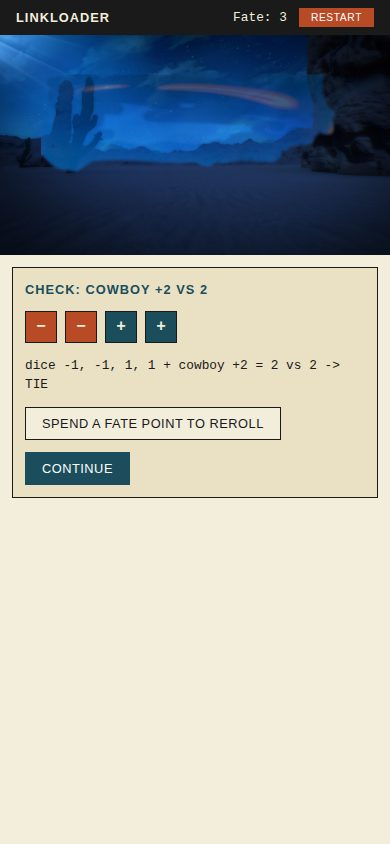
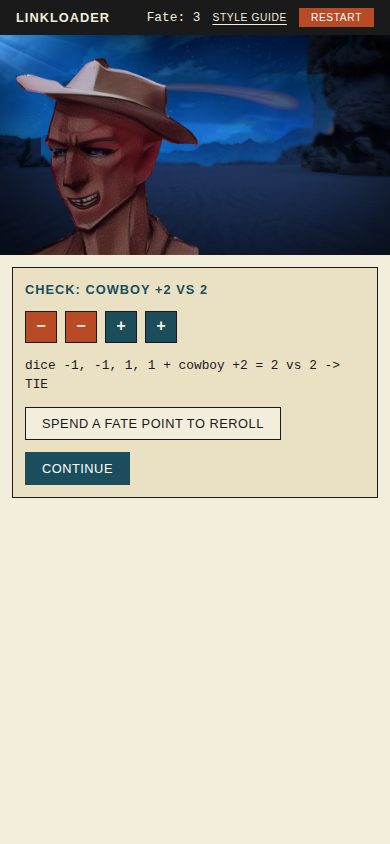
Add an Inner stratum section to the style guide, with new screenshots
The guide now shows the room and the found document with the rules
that apply there. capture.py adds room and found-document shots, and
every screenshot is re-captured from the current build.

Claude-Session: https://claude.ai/code/session_015fCi4iE5Euj7jwaLaDTxwg

diff --git a/web/guide/index.html b/web/guide/index.html
@@ -237,6 +237,7 @@
     <li><a href="#shape">Shape</a></li>
     <li><a href="#screens">In the game</a></li>
     <li><a href="#sprites">Sprites</a></li>
+    <li><a href="#inner">Inner stratum</a></li>
     <li><a href="#writing">Writing</a></li>
     <li><a href="#instructions">Project instructions</a></li>
     <li><a href="#tokens">Tokens</a></li>
@@ -465,6 +466,51 @@
   </div>
 </section>
 
+<section id="inner">
+  <div class="wrap">
+    <div class="section-head">
+      <p class="eyebrow">Inner stratum</p>
+      <h2>Clipi's memory, and Clipi's room</h2>
+    </div>
+    <div class="prose">
+      <p>Two scenes leave the ordinary game view for a second visual mode, set with a <code>mode inner</code> line at the top of the scene (see <code>docs/scene-format.md</code>). Everywhere else, the game is the default stratum shown above. In these two, three rules change at once: a dot-halftone overlay and low scanlines over the stage, a heavier ink rule on the dialogue box, and choices drawn as flat tiles instead of a plain list.</p>
+    </div>
+
+    <article class="component">
+      <div class="shots">
+        <figure><img src="shots/found-document.jpg" alt="Slim and a corrupted terminal, with a found log line quoted verbatim in the dialogue box below" width="1100" height="760"><figcaption>Desktop</figcaption></figure>
+        <figure><img src="shots/found-document-phone.jpg" alt="The same beat at phone width" width="390" height="844"><figcaption>Phone</figcaption></figure>
+      </div>
+      <div class="text">
+        <h3>Found document</h3>
+        <ul>
+          <li>Clipi reads a corrupted memory log back verbatim, in file order, line by line: no narration, no reaction from Clipi beyond the words themselves.</li>
+          <li>Clipi speaks as itself here, not as a sprite reacting to the log; the log is quoted, not staged.</li>
+          <li>The heavier top rule on the dialogue box shows plainly. The halftone and scanlines sit over the stage's photographic art and read faint there, the way they did over any busy image in Wave A.</li>
+        </ul>
+        <a class="play-link" href="../index.html" data-runner>Open in the game →</a>
+      </div>
+    </article>
+
+    <article class="component">
+      <div class="shots">
+        <figure><img src="shots/room.jpg" alt="A flat ink-line room: a chest of drawers, a round window that reads as an eye, and a door, all under a visible halftone dot grid" width="1100" height="760"><figcaption>Desktop</figcaption></figure>
+        <figure><img src="shots/room-phone.jpg" alt="The same room at phone width, with the same choice tiles" width="390" height="844"><figcaption>Phone</figcaption></figure>
+      </div>
+      <div class="text">
+        <h3>The room</h3>
+        <ul>
+          <li>Clipi's interior during the reboot: a chest of drawers (the <code>count-herd</code> puzzle), a round window that reads as an eye, and a door. No character stands in it — Clipi is the room, and speaks only as a voice.</li>
+          <li>It appears once, between the found document and the confrontation, and its door leads out.</li>
+          <li>Choices render as flat labeled tiles here instead of a plain list, each with a heavier left rule.</li>
+          <li>Over this flat ink-line art, the halftone and scanlines read clearly at both widths, unlike over the photographic stage art above. The dot grid stays legible at 390px; it does not blur into noise on a phone screen.</li>
+        </ul>
+        <a class="play-link" href="../index.html" data-runner>Open in the game →</a>
+      </div>
+    </article>
+  </div>
+</section>
+
 <section id="writing" class="grid-puzzle">
   <div class="wrap">
     <div class="section-head">
@@ -613,7 +659,6 @@ WHEN UNSURE
       <li>Per-speaker colour in the dialogue box: the top rule and name chip should take Slim's orange, the Terminal's teal, Clipi's magenta or Cargo Bot's ochre. The game uses orange for everyone.</li>
       <li>The duotone pass on the four main sprites, and new art or a duotone treatment for Cargo Bot and Syntax-4.</li>
       <li>A finished Rill mark. The one at the top of this page is a first sketch.</li>
-      <li>A test of how much halftone survives on a phone screen before it reads as noise.</li>
     </ul>
   </div>
 </section>

diff --git a/tools/guide/capture.py b/tools/guide/capture.py
@@ -62,6 +62,66 @@ def cowboy_then_head_out(texts):
     return 0
 
 
+def room_chooser(texts):
+    """Carries the player from the start down to and through the room
+    (docs/plans/wave2.md sections 2 and 4): head out without Clipi,
+    leave the rustler brand alone, talk Clipi down with the base-case
+    phrase, then open the chest before the window."""
+    for i, t in enumerate(texts):
+        if "Head out" in t:
+            return i
+    for i, t in enumerate(texts):
+        if "Leave it. It isn't cargo." in t:
+            return i
+    for i, t in enumerate(texts):
+        if "Say fen" in t:
+            return i
+    for i, t in enumerate(texts):
+        if "Open the chest of drawers." in t:
+            return i
+    return 0
+
+
+def answer_text(root, puzzle_id):
+    return (root / "puzzles" / puzzle_id / "answer.rill").read_text(encoding="utf-8")
+
+
+def walk_to_room_hub(page, base, root, seed=1):
+    """Plays from `start` down through the found-document scene to
+    `room_hub` (see story/03-clipi.scene and story/03b-room.scene),
+    passing decode-buoy and count-crew and skipping the optional
+    read-brand puzzle."""
+    page.goto(f"{base}/?seed={seed}")
+    page.wait_for_selector("#dialogue-box, #choices-wrap", state="visible")
+    answers = {"decode-buoy": answer_text(root, "decode-buoy"), "count-crew": answer_text(root, "count-crew")}
+    for _ in range(400):
+        if page.evaluate("() => window.__linkloaderGame.currentLabel") == "room_hub" and page.is_visible(
+            "#choices-wrap"
+        ):
+            return
+        if page.is_visible("#puzzle-panel"):
+            title = page.inner_text("#puzzle-title").lower()
+            pid = next(p for p in answers if p in title)
+            page.fill("#puzzle-editor", answers[pid])
+            page.click("#puzzle-check-btn")
+            page.wait_for_function("() => document.getElementById('puzzle-panel').hidden === true")
+            continue
+        if page.is_visible("#dialogue-box"):
+            page.click("#dialogue-box")
+            page.wait_for_timeout(15)
+            continue
+        if page.is_visible("#choices-wrap"):
+            buttons = page.query_selector_all("#choices-list button")
+            buttons[room_chooser([b.inner_text() for b in buttons])].click()
+            page.wait_for_timeout(15)
+            continue
+        if page.is_visible("#check-panel"):
+            page.click("#check-actions .btn-primary")
+            continue
+        page.wait_for_timeout(20)
+    raise RuntimeError("gave up waiting for room_hub")
+
+
 def shot(page, out, name):
     page.wait_for_timeout(150)
     page.locator("#game").screenshot(path=str(out / f"{name}.jpg"), quality=82, type="jpeg")
@@ -96,6 +156,46 @@ def main(dist, out):
                 page.click("#puzzle-check-btn")
                 advance_until(page, "#check-panel", cowboy_then_head_out)
                 shot(page, out, "check" + suffix)
+
+                # The inner stratum: the found document and the room
+                # (docs/plans/wave2.md sections 2 and 4).
+                page.evaluate("() => localStorage.clear()")
+                page.goto(f"{base}/?seed=1")
+                page.wait_for_selector("#dialogue-box, #choices-wrap", state="visible")
+                found_answers = {
+                    "decode-buoy": answer_text(ROOT, "decode-buoy"),
+                    "count-crew": answer_text(ROOT, "count-crew"),
+                }
+                for _ in range(400):
+                    if page.evaluate("() => window.__linkloaderGame.currentLabel") == "found_document":
+                        break
+                    if page.is_visible("#puzzle-panel"):
+                        title = page.inner_text("#puzzle-title").lower()
+                        pid = next(p for p in found_answers if p in title)
+                        page.fill("#puzzle-editor", found_answers[pid])
+                        page.click("#puzzle-check-btn")
+                        page.wait_for_function(
+                            "() => document.getElementById('puzzle-panel').hidden === true"
+                        )
+                        continue
+                    if page.is_visible("#dialogue-box"):
+                        page.click("#dialogue-box")
+                        page.wait_for_timeout(15)
+                        continue
+                    if page.is_visible("#choices-wrap"):
+                        buttons = page.query_selector_all("#choices-list button")
+                        buttons[room_chooser([b.inner_text() for b in buttons])].click()
+                        page.wait_for_timeout(15)
+                        continue
+                    if page.is_visible("#check-panel"):
+                        page.click("#check-actions .btn-primary")
+                        continue
+                    page.wait_for_timeout(20)
+                shot(page, out, "found-document" + suffix)
+
+                page.evaluate("() => localStorage.clear()")
+                walk_to_room_hub(page, base, ROOT, seed=1)
+                shot(page, out, "room" + suffix)
             browser.close()
     finally:
         server.shutdown()
